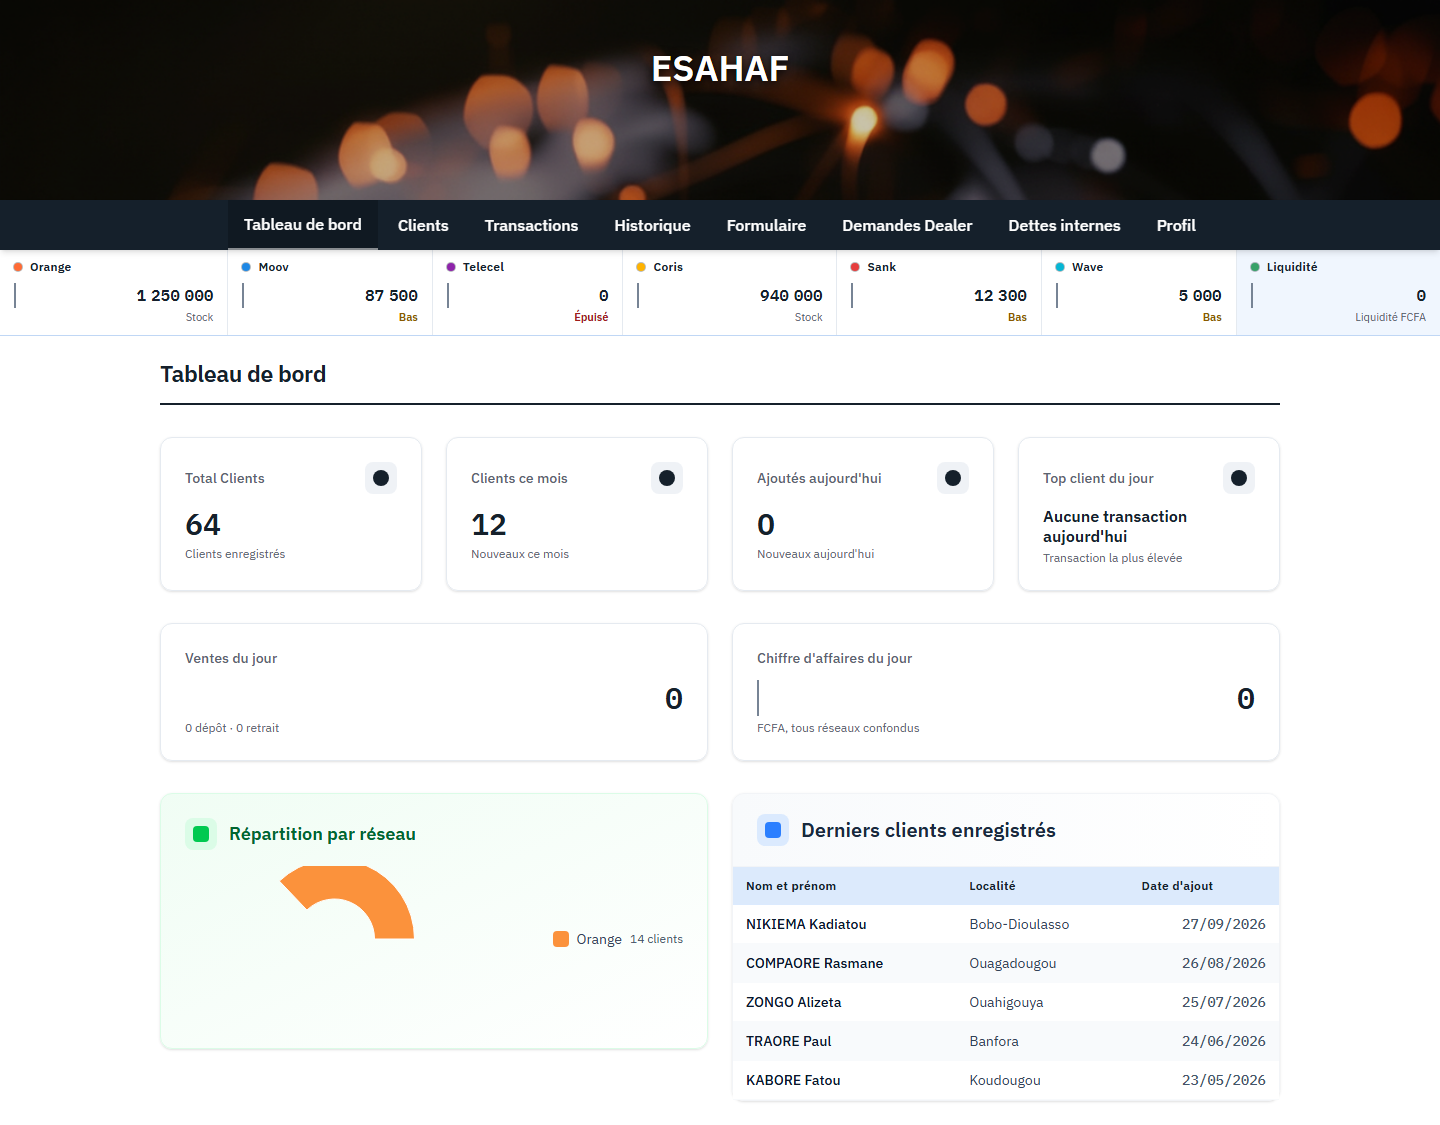
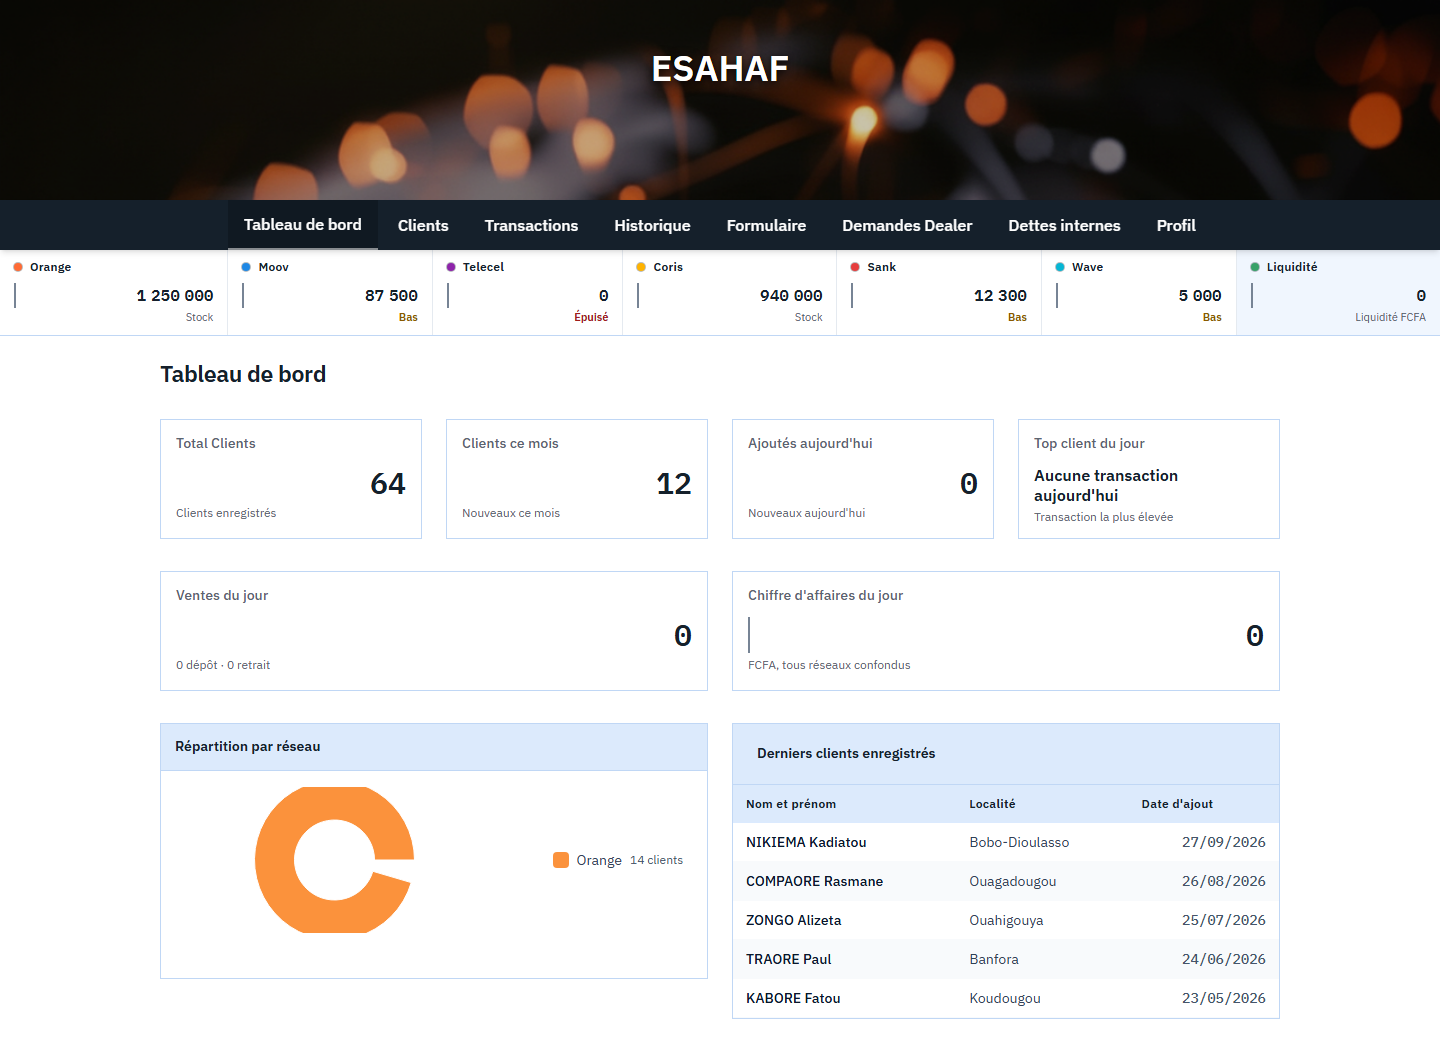
feat(design): L8.1d — le tableau de bord perd son chrome, RESTYLE PUR
Aucun texte n'est ajoute, retire ni deplace. Ce qui change est ce dont les
boites sont FAITES.

TROIS TICS PARTENT ENSEMBLE, ET ILS N'ETAIENT PAS INDEPENDANTS

• LE DEGRADE. `bg-gradient-to-br from-*-50 to-white` n'est pas une couleur :
  c'est une IMAGE de fond, peinte PAR-DESSUS la couleur. `background-color`
  seul ne l'enleve pas. Et tant qu'elle est la, axe classe la zone
  « incomplete » au lieu de « violation » : il ne sait pas calculer un
  contraste sur un degrade. Chaque degrade retire rend donc une zone MESURABLE,
  en plus de la rendre sobre.

• L'ARRONDI. `rounded-xl`, c'est 12 px. La maquette ne met aucun rayon sur
  `.tuile` ni sur `.surface` : un angle vif dit « ceci est un cadre », un angle
  rond dit « ceci est une vignette ».

• L'OMBRE PORTEE. DESIGN.md §1 la nomme comme le tic a retirer. Elle simule une
  profondeur que le papier n'a pas, et elle le fait en FLOUTANT le bord —
  c'est-a-dire en rendant indecise la seule chose qui separe deux blocs. Un
  filet de 1 px a 1,47:1 dit la meme chose, nettement.

L'ombre au survol part avec : ces boites ne sont ni des liens ni des boutons, et
un effet de survol sur une zone qu'on ne peut pas actionner promet une action
qui n'existe pas.

LES PASTILLES SONT RETIREES, PAS REPEINTES

Elles ne portent aucun texte et ne disent rien que le titre a cote d'elles ne
dise deja. Sous l'identite, les six teintes du chrome deviennent UNE : les quatre
[…]

diff --git a/src/index.css b/src/index.css
@@ -424,6 +424,24 @@ body {
   padding-bottom: 0;
 }
 
+/* ⚠ RETIRER LE TRAIT DU TITRE NE SUFFISAIT PAS — ajouté au lot L8.1d.
+   La règle ci-dessus vise le `<h1>`, parce que c'est lui qui portait le
+   soulignement sur les écrans passés par `PageHeader`. Le tableau de bord, lui,
+   compose son en-tête à la main : le trait est sur le DIV qui enveloppe le
+   titre (`border-b-2 border-current`, Dashboard.jsx). Il a donc survécu au lot
+   L7.1, et c'était le seul des dix écrans à garder une barre noire de 2 px sous
+   son titre — celle-là même que le reste du chantier retire.
+
+   `data-tete-ecran` reprend le nom de la maquette (`.ecran__tete`). Il est posé
+   sur les DEUX branches de Dashboard.jsx : celle du chargement et celle de
+   l'écran chargé. N'en marquer qu'une aurait fait apparaître le trait pendant
+   le chargement puis disparaître — un clignotement, et une correction qu'on
+   croit faite. */
+.design-registre [data-espace='boutique'] [data-tete-ecran] {
+  border-bottom: 0;
+  padding-bottom: 0;
+}
+
 /* ═══════════════════════════════════════════════════════════════════════════
    LE TABLEAU : DES FILETS HORIZONTAUX, PLUS DE QUADRILLAGE (lot L7.2b)
    ───────────────────────────────────────────────────────────────────────────
@@ -822,6 +840,137 @@ body {
 .design-registre .auth-sidebar {
   background-image: none;
   background-color: var(--color-encre);
+}
+
+/* ═══════════════════════════════════════════════════════════════════════════
+   LES TUILES ET LES SURFACES DU TABLEAU DE BORD (lot L8.1d) — RESTYLE PUR
+   ───────────────────────────────────────────────────────────────────────────
+   Aucun texte n'est ajouté, retiré ni déplacé par ce bloc. Ce qui change est ce
+   dont les boîtes sont FAITES.
+
+   TROIS TICS PARTENT ENSEMBLE, ET ILS N'ÉTAIENT PAS INDÉPENDANTS
+
+   • LE DÉGRADÉ. `bg-gradient-to-br from-*-50 to-white` n'est pas une couleur :
+     c'est une IMAGE de fond, peinte PAR-DESSUS la couleur. `background-color`
+     seul ne l'enlève pas — il faut `background-image: none`. Et tant qu'elle est
+     là, axe classe l'élément « incomplete » au lieu de « violation » : il ne
+     sait pas calculer un contraste sur un dégradé. Chaque dégradé retiré rend
+     donc une zone MESURABLE, en plus de la rendre sobre. C'est ce qui a fait
+     apparaître les défauts de la bande des réserves au lot L7.4c.
+
+   • L'ARRONDI. `rounded-xl`, c'est 12 px. La maquette ne met aucun rayon sur
+     `.tuile` ni sur `.surface` : un registre est fait de traits droits, et un
+     angle vif dit « ceci est un cadre », là où un angle rond dit « ceci est une
+     vignette ».
+
+   • L'OMBRE PORTÉE. DESIGN.md §1 la nomme comme le tic à retirer. Elle simule
+     une profondeur que le papier n'a pas, et elle le fait en floutant le bord —
+     c'est-à-dire en rendant indécise la seule chose qui sépare deux blocs. Un
+     filet de 1 px à 1,47:1 dit la même chose, nettement.
+
+   ⚠ LES CLASSES RESTENT DANS LE JSX, ET C'EST LA CONDITION DE TOUT CECI.
+   `DashboardCard`, `NetworkChart` et `LastClientsTable` servent AUSSI TAOFIC,
+   qui est en production. Les composants déclarent un FAIT — `data-tuile`,
+   `data-surface` — et c'est l'identité qui décide du rendu. Sans la classe de
+   portée, pas une de ces règles ne s'applique : TAOFIC ne bouge pas d'un pixel,
+   sans qu'un seul `if` de client ait été écrit dans du JSX.
+
+   ⚠ POURQUOI `[data-espace='boutique']` EN PLUS DE L'IDENTITÉ.
+   `.design-registre` est posée sur <html> : elle couvre TOUT le client ESAHAF,
+   espaces admin et dealer compris, alors que le mandat s'arrête au Layout de la
+   boutique et à ses dix routes. Les quatre marqueurs ci-dessous ne vivent
+   aujourd'hui que sur des composants du tableau de bord, mais ce sont des FAITS
+   destinés à se répandre — `data-tuile` ira sur toute tuile, `data-surface` sur
+   tout bloc. Le jour où l'un d'eux atteint un composant partagé avec l'admin ou
+   le dealer, ce bloc les restylerait sans qu'une ligne ne le dise. Le marqueur
+   d'espace ferme cela d'avance, au lieu d'espérer s'en souvenir.
+
+   Le Layout de la boutique est le seul à poser `data-espace="boutique"`
+   (Layout.jsx:160) ; l'admin a `AdminLayout`, le dealer `DealerLayout`.
+
+   ⚠ `StatCard` N'EST PAS CONCERNÉ, ET J'AI CRU L'INVERSE.
+   Une recherche du mot « DashboardCard » le fait remonter — mais dans son
+   COMMENTAIRE d'en-tête (« Alignée sur l'esthétique […] (DashboardCard) »), pas
+   dans un import : `StatCard` porte ses propres classes. `DashboardCard` ne sort
+   donc jamais du tableau de bord (CAChart, ChiffresDuJour, InfoCards). Les
+   tuiles de « Dettes internes » gardent leur `rounded-2xl` et leur ombre pour le
+   moment ; elles relèvent du lot de cet écran-là.
+
+   ⚠ SPÉCIFICITÉ. Une utilitaire Tailwind pèse (0,1,0). `.design-registre
+   [data-espace='boutique'] [data-tuile]` pèse (0,3,0) et l'emporte quelle que
+   soit sa place dans le fichier. Aucun `!important` n'est nécessaire, et aucun
+   n'est écrit.
+   ═══════════════════════════════════════════════════════════════════════════ */
+
+.design-registre [data-espace='boutique'] [data-tuile],
+.design-registre [data-espace='boutique'] [data-surface] {
+  background-image: none;
+  background-color: var(--color-papier);
+  /* `--trait-200` (1,47:1) et non `--reglure` (1,21:1) : ce filet sépare un bloc
+     de la page, pas deux lignes d'un même tableau. Chiffres vérifiés par
+     `npm run qa:jetons`. */
+  border: 1px solid var(--color-trait-200);
+  border-radius: 0;
+  box-shadow: none;
+}
+
+/* L'ombre au survol part avec les autres. Ces boîtes ne sont ni des liens ni des
+   boutons : un effet de survol sur une zone qu'on ne peut pas actionner promet
+   une action qui n'existe pas. Les vraies cibles, elles, gardent leur état —
+   c'est le bloc « LE RANG DES ACTIONS » qui s'en charge. */
+.design-registre [data-espace='boutique'] [data-tuile]:hover,
+.design-registre [data-espace='boutique'] [data-surface]:hover {
+  box-shadow: none;
+}
+
+/* La tuile resserre : 24 px de marge intérieure pour trois lignes de texte,
+   c'est une carte ; la maquette en met 13 et 15. Sur le téléphone du caissier,
+   ces 11 px repris par tuile font une tuile de plus dans l'écran. */
+.design-registre [data-espace='boutique'] [data-tuile] {
+  padding: 0.8125rem 0.9375rem;
+}
+
+/* L'en-tête d'une surface tient par son fond et son filet bas, comme l'en-tête
+   d'un tableau — et pour la même raison : c'est la même fonction. */
+.design-registre [data-espace='boutique'] [data-bloc-titre] {
+  background-image: none;
+  background-color: var(--color-surface-100);
+  border-bottom: 1px solid var(--color-trait-200);
+  border-radius: 0;
+}
+
+/* ⚠ UN BANDEAU DE TITRE NE SE POSE PAS PAREIL DANS LES DEUX SURFACES.
+   Le bloc des derniers clients ne se rembourre pas : son bandeau est un enfant
+   direct qui touche déjà les bords. Le bloc de graphique, lui, porte `p-6` —
+   son bandeau se retrouvait enfoncé de 24 px de chaque côté et flottait au
+   milieu de la surface comme un libellé surligné, au lieu de la coiffer.
+
+   Les -1.5rem SONT les 24 px de `p-6`, et rien d'autre. Ce couplage est la
+   raison d'être de `data-surface="graphique"` : sans lui, cette compensation
+   s'appliquerait aussi au bloc non rembourré, dont le bandeau déborderait alors
+   de la surface. */
+.design-registre [data-espace='boutique'] [data-surface='graphique'] > [data-bloc-titre] {
+  margin: -1.5rem -1.5rem 1rem;
+  padding: 0.75rem 0.875rem;
+}
+
+.design-registre [data-espace='boutique'] [data-bloc-titre] h2,
+.design-registre [data-espace='boutique'] [data-bloc-titre] h3 {
+  color: var(--color-encre);
+  font-size: 0.875rem;
+  font-weight: 600;
+}
+
+/* ⚠ RETIRÉE, PAS REPEINTE.
+   Ces pastilles ne portent aucun texte et ne disent rien que le titre à côté
+   d'elles ne dise déjà. Sous l'identité, les six teintes du chrome deviennent
+   une seule : les quatre tuiles de tête affichaient alors le MÊME rond noir,
+   quatre fois, comme si elles se distinguaient par là. Une décoration qui a
+   perdu ce qu'elle distinguait n'est plus une décoration, c'est du bruit.
+   `display: none` et non `visibility: hidden` : il ne doit pas rester la place
+   d'un carré de 32 px au bout de chaque titre. */
+.design-registre [data-espace='boutique'] [data-vignette] {
+  display: none;
 }
 
 /* ═══════════════════════════════════════════════════════════════════════════

diff --git a/src/components/dashboard/InfoCards.jsx b/src/components/dashboard/InfoCards.jsx
@@ -44,11 +44,23 @@ function InfoCards({ totalClients, monthlyClients, dailyClients, topClient }) {
           >
             <div className="flex items-center justify-between mb-3">
               <h3 className={`text-sm font-medium ${colors.accent} mb-0`}>{card.title}</h3>
-              <div className={`h-8 w-8 ${colors.iconBg} rounded-lg flex items-center justify-center`}>
+              {/* `data-vignette` : une pastille DÉCORATIVE. Elle ne dit rien que
+                  le titre ne dise déjà — sous l'identité, quatre couleurs
+                  devenues une seule n'en font plus qu'un rond noir répété quatre
+                  fois. src/index.css la retire ; TAOFIC la garde. */}
+              <div data-vignette className={`h-8 w-8 ${colors.iconBg} rounded-lg flex items-center justify-center`}>
                 <div className={`h-4 w-4 ${colors.iconColor} rounded-full`}></div>
               </div>
             </div>
-            <div className={`${card.isText ? 'text-base' : 'text-3xl'} font-bold ${colors.title} ${card.isText ? 'leading-tight' : ''}`}>
+            {/* `data-nombre` et non `data-montant` : ce sont des DÉCOMPTES de
+                clients, pas de l'argent. Chiffres tabulaires et alignement à
+                droite, sans la réglure — qui ne va qu'aux FCFA. « Top client du
+                jour » est du TEXTE et n'en porte aucun : un nom en chasse fixe
+                alignée à droite ne se compare à rien. */}
+            <div
+              {...(card.isText ? {} : { 'data-nombre': '' })}
+              className={`${card.isText ? 'text-base' : 'text-3xl'} font-bold ${colors.title} ${card.isText ? 'leading-tight' : ''}`}
+            >
               {card.value}
             </div>
             <p className={`text-xs ${colors.accent} mt-1`}>{card.subtitle}</p>

diff --git a/src/components/dashboard/Charts/NetworkChart.jsx b/src/components/dashboard/Charts/NetworkChart.jsx
@@ -64,9 +64,16 @@ function NetworkChart() {
   }
 
   return (
-    <div className="bg-gradient-to-br from-green-50 to-white rounded-xl shadow-sm border border-green-100 p-6 h-64">
-      <div className="flex items-center space-x-3 mb-4">
-        <div className="h-8 w-8 bg-green-100 rounded-lg flex items-center justify-center">
+    // `data-surface` : un bloc de contenu, par opposition à une tuile qui porte
+    // un seul chiffre. Les classes vertes restent pour TAOFIC — ce composant
+    // n'est pas gardé par `IS_REGISTRE`, les deux identités le rendent.
+    // `data-surface="graphique"` et non `data-surface` tout court : ce bloc se
+    // rembourre LUI-MÊME (`p-6`), là où celui des derniers clients laisse ses
+    // enfants le faire. Ce n'est pas le même objet, et son bandeau de titre ne
+    // se pose pas de la même façon — src/index.css en tient compte.
+    <div data-surface="graphique" className="bg-gradient-to-br from-green-50 to-white rounded-xl shadow-sm border border-green-100 p-6 h-64">
+      <div data-bloc-titre className="flex items-center space-x-3 mb-4">
+        <div data-vignette className="h-8 w-8 bg-green-100 rounded-lg flex items-center justify-center">
           <div className="h-4 w-4 bg-green-500 rounded-sm"></div>
         </div>
         <h3 className="text-green-800 text-lg font-semibold">Répartition par réseau</h3>

diff --git a/src/components/dashboard/LastClientsTable.jsx b/src/components/dashboard/LastClientsTable.jsx
@@ -65,11 +65,11 @@ function LastClientsTable({ clients = [] }) {
   }
 
   return (
-    <div className="bg-gradient-to-br from-gray-50 to-white rounded-xl shadow-sm border border-gray-100">
+    <div data-surface className="bg-gradient-to-br from-gray-50 to-white rounded-xl shadow-sm border border-gray-100">
       {/* En-tête avec design moderne */}
-      <div className="px-6 py-5 border-b border-gray-100 bg-gradient-to-r from-gray-50 to-white rounded-t-xl">
+      <div data-bloc-titre className="px-6 py-5 border-b border-gray-100 bg-gradient-to-r from-gray-50 to-white rounded-t-xl">
         <div className="flex items-center space-x-3">
-          <div className="h-8 w-8 bg-blue-100 rounded-lg flex items-center justify-center">
+          <div data-vignette className="h-8 w-8 bg-blue-100 rounded-lg flex items-center justify-center">
             <div className="h-4 w-4 bg-blue-500 rounded-sm"></div>
           </div>
           <h2 className="text-xl font-bold text-gray-800">Derniers clients enregistrés</h2>

diff --git a/src/components/ui/DashboardCard.jsx b/src/components/ui/DashboardCard.jsx
@@ -15,7 +15,12 @@ function DashboardCard({
   const hoverClass = hover ? 'hover:shadow-md transition-all duration-200' : ''
 
   return (
-    <div className={`bg-gradient-to-br ${colors.background} rounded-xl shadow-sm border ${colors.border} p-6 ${height} ${hoverClass} ${className}`}>
+    // `data-tuile` est un FAIT : cette boîte porte UN chiffre de synthèse. Les
+    // classes de dégradé, d'arrondi et d'ombre restent, parce que ce composant
+    // sert aussi TAOFIC, qui est en production et n'a rien demandé. Sous
+    // `.design-registre`, src/index.css les neutralise — aucun `if` de client
+    // dans ce JSX, donc aucune occasion d'en oublier un.
+    <div data-tuile className={`bg-gradient-to-br ${colors.background} rounded-xl shadow-sm border ${colors.border} p-6 ${height} ${hoverClass} ${className}`}>
       {title && (
         <CardHeader
           title={title}

diff --git a/src/pages/Dashboard.jsx b/src/pages/Dashboard.jsx
@@ -46,7 +46,7 @@ function Dashboard() {
     return (
       <div className="space-y-8">
         {/* Titre */}
-        <div className={`border-b-2 border-current pb-4 ${themeClasses.text}`}>
+        <div data-tete-ecran className={`border-b-2 border-current pb-4 ${themeClasses.text}`}>
           <h1 data-titre-ecran className={`text-3xl font-bold ${themeClasses.text}`}>Tableau de bord</h1>
         </div>
 
@@ -64,7 +64,7 @@ function Dashboard() {
   return (
     <div className="space-y-8">
       {/* Titre */}
-      <div className={`border-b-2 border-current pb-4 ${themeClasses.text}`}>
+      <div data-tete-ecran className={`border-b-2 border-current pb-4 ${themeClasses.text}`}>
         <h1 data-titre-ecran className={`text-3xl font-bold ${themeClasses.text}`}>Tableau de bord</h1>
       </div>
 
